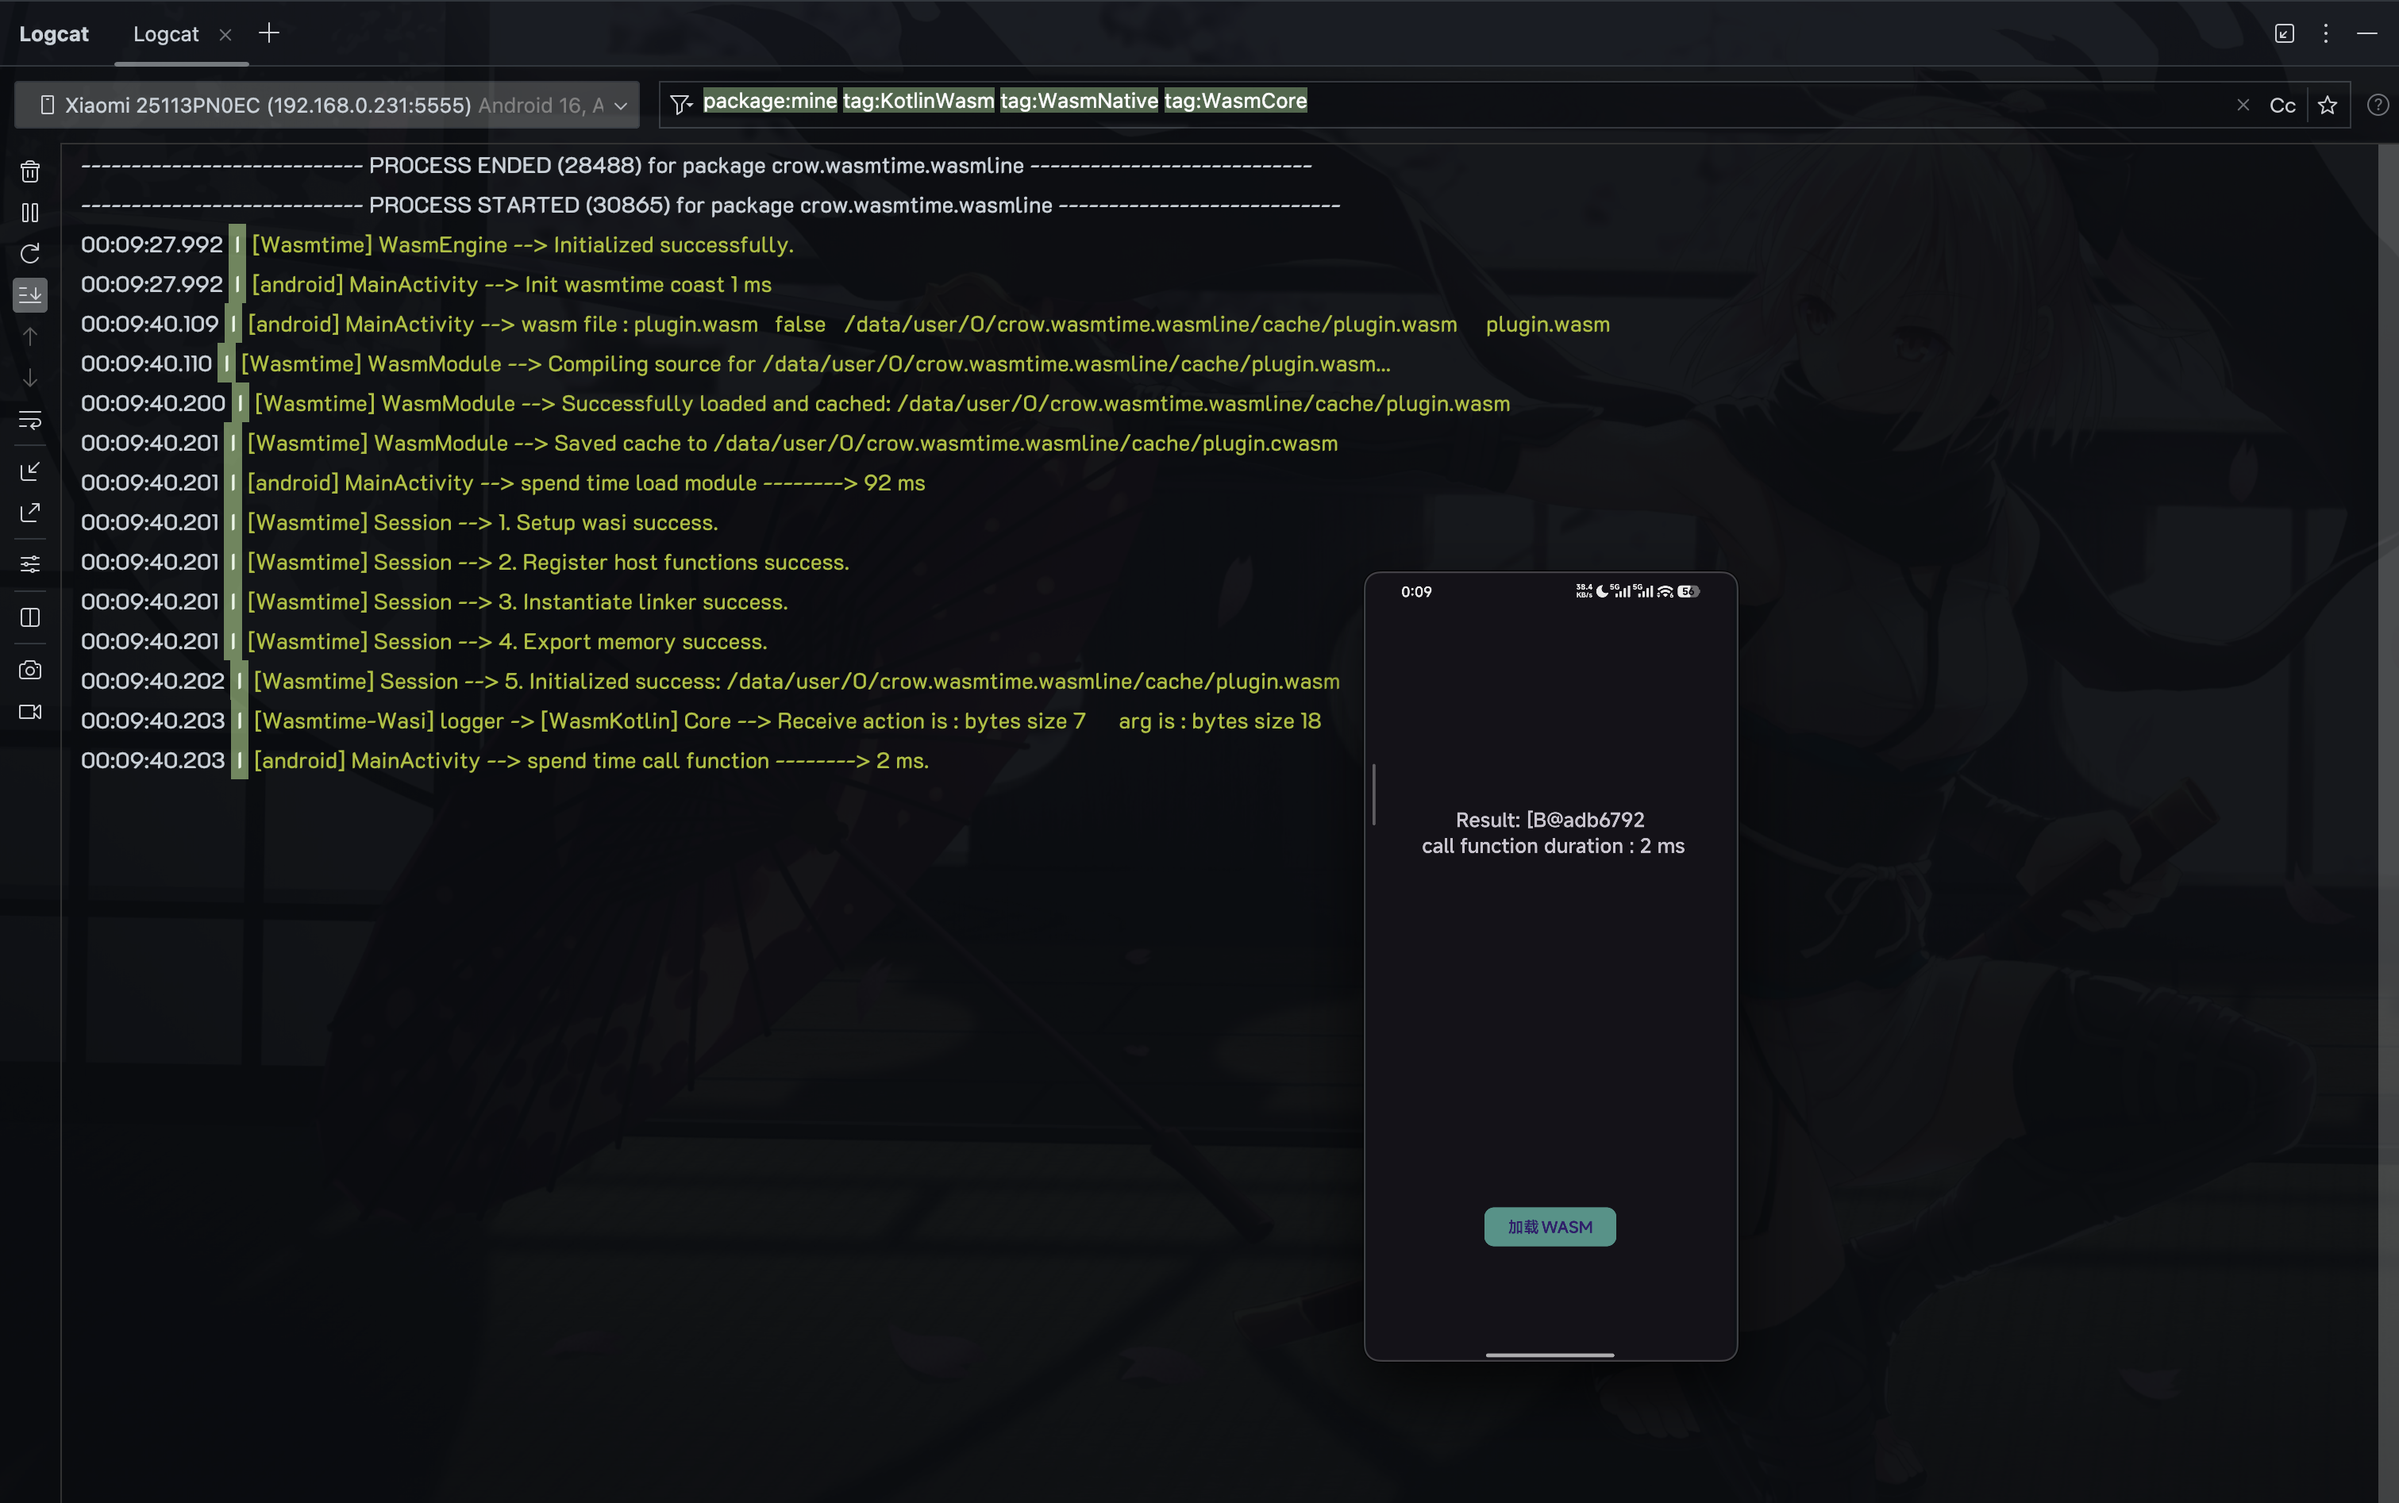
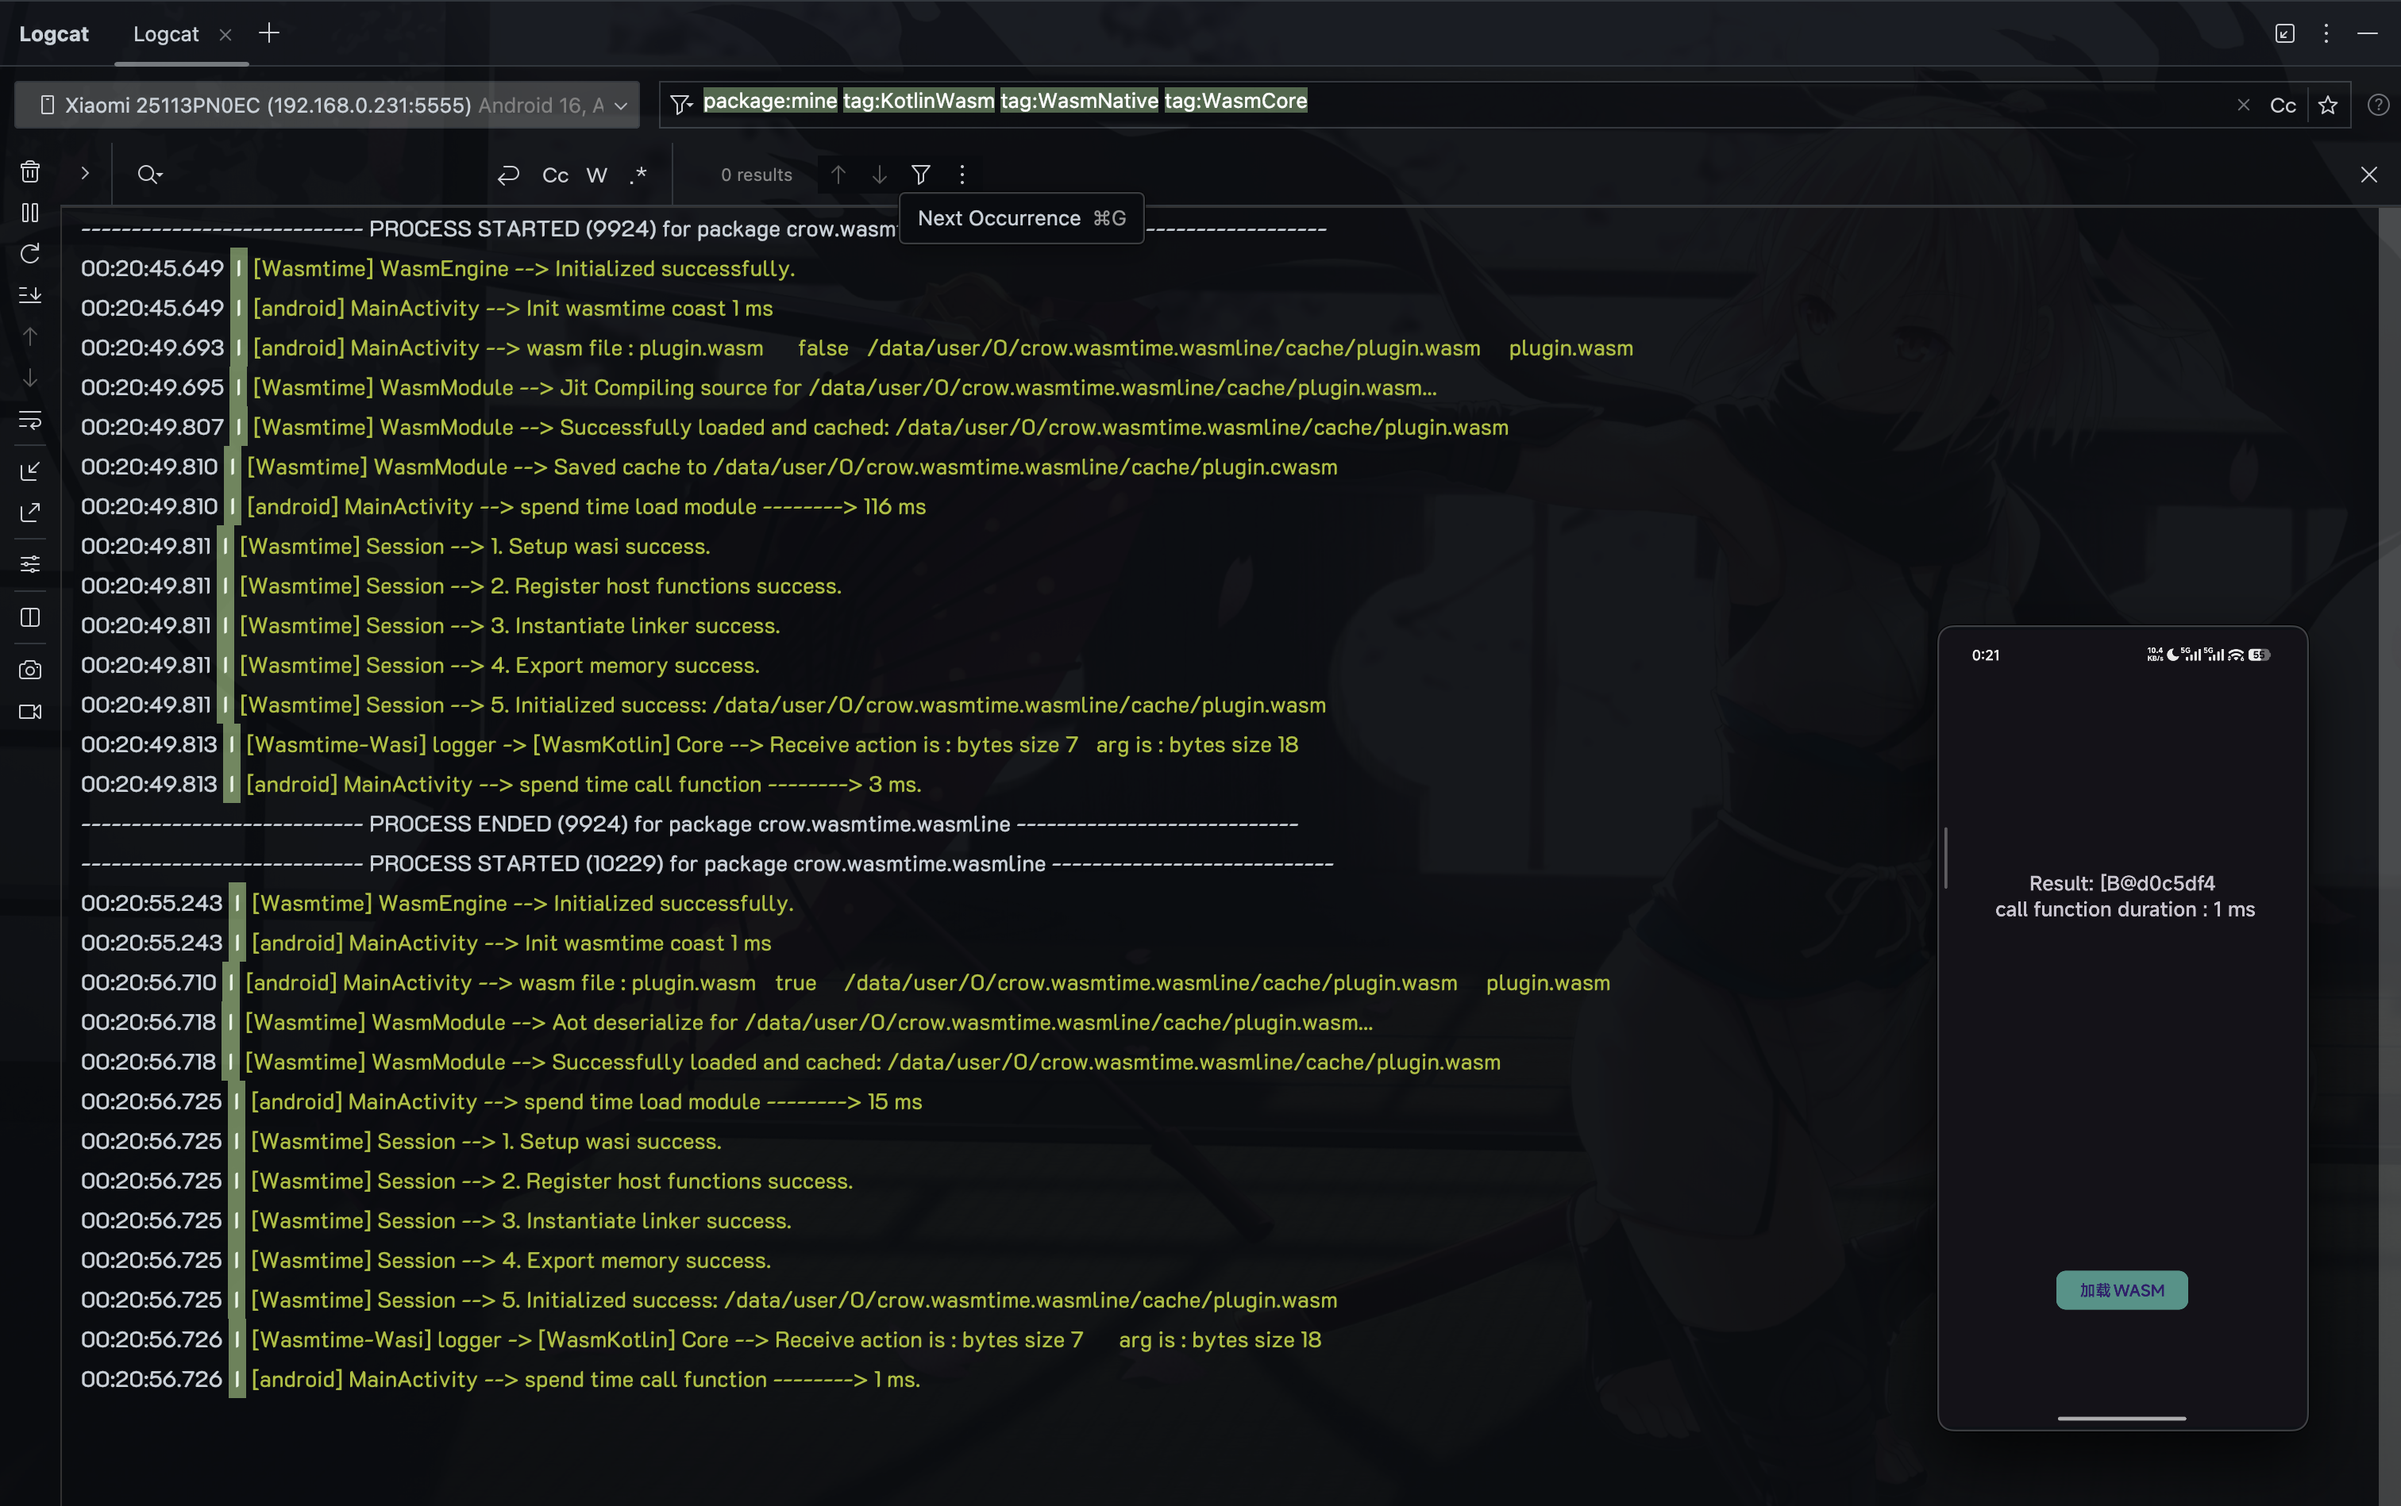
:tada: Add Cpp Samples :tada: Split architecture

diff --git a/wasmtime-cpp/src/WasmModule.cpp b/wasmtime-cpp/src/WasmModule.cpp
@@ -30,6 +30,7 @@ wasmtime_module_t* WasmModule::load(const std::string& key, const std::string& f
         std::shared_lock<std::shared_mutex> lock(cacheMutex);
         auto it = moduleCache.find(key);
         if (it != moduleCache.end()) {
+            LOGE("[Wasmtime] WasmModule --> Get module from memory Cache");
             return it->second;
         }
     }
@@ -62,11 +63,11 @@ wasmtime_module_t* WasmModule::load(const std::string& key, const std::string& f
 
     if (isJit) {
         // Compile from Source (.wasm)
-        LOGI("[Wasmtime] WasmModule --> Compiling source for %s...", key.c_str());
+        LOGI("[Wasmtime] WasmModule --> Jit Compiling source for %s...", key.c_str());
         error = wasmtime_module_new(engine, data.data(), data.size(), &module);
     } else {
         // Deserialize from Binary (.cwasm)
-        LOGI("[Wasmtime] WasmModule --> Loading cache for %s...", key.c_str());
+        LOGI("[Wasmtime] WasmModule --> Aot deserialize for %s...", key.c_str());
         error = wasmtime_module_deserialize(engine, data.data(), data.size(), &module);
     }
 
